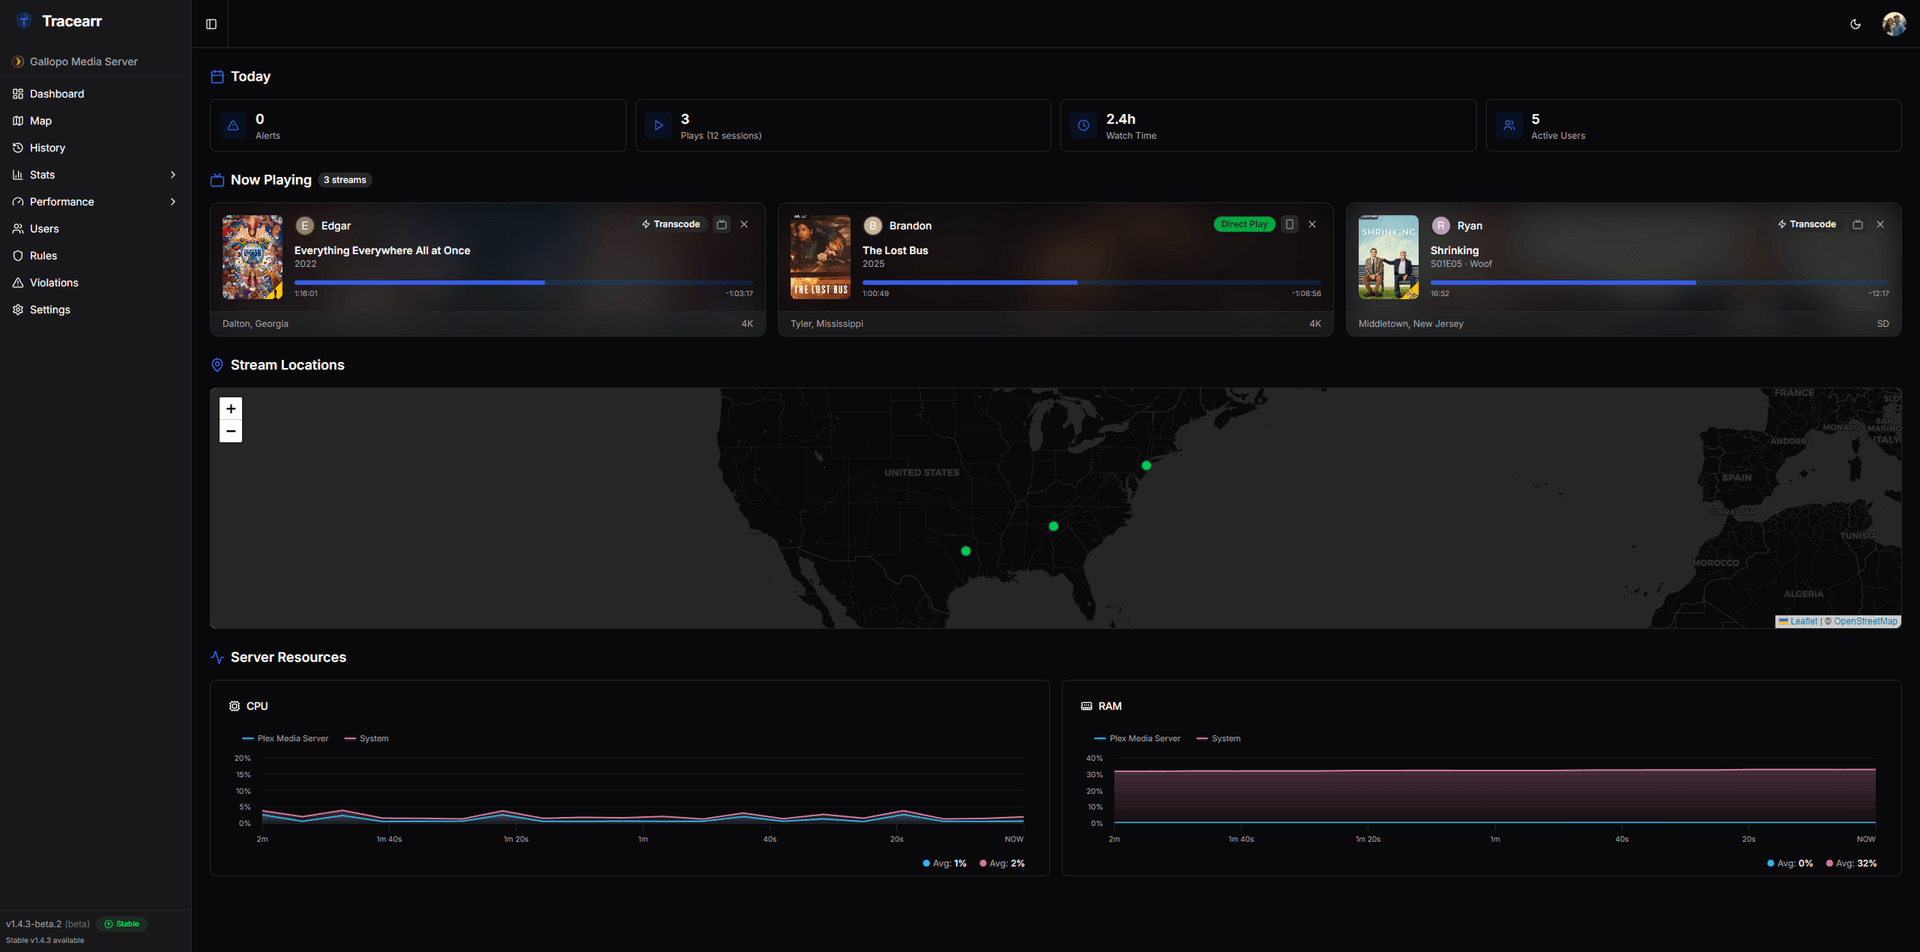
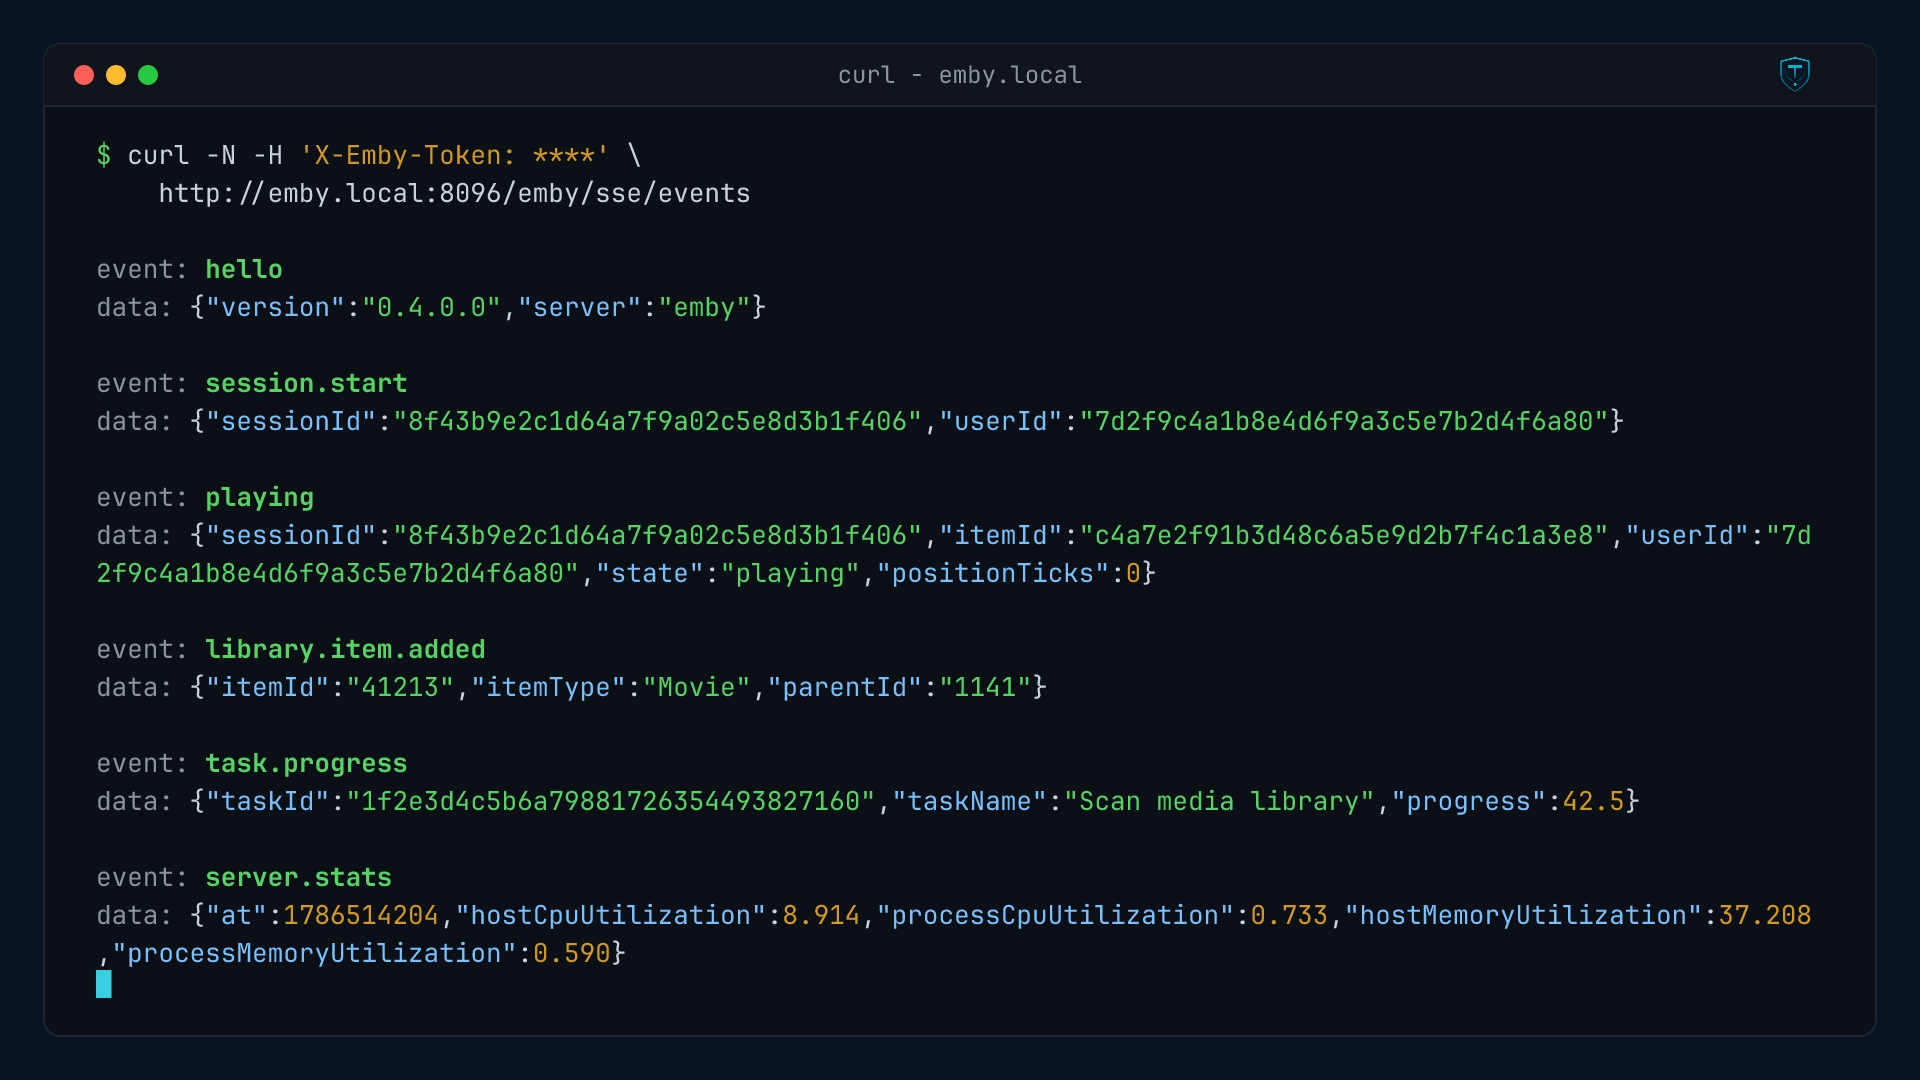
catalog art goes sse-specific and the manifests carry real release notes

diff --git a/.github/scripts/update-manifests.py b/.github/scripts/update-manifests.py
@@ -48,9 +48,13 @@ def main(argv):
     jf_url = JF_URL_TEMPLATE.format(v=release_version)
     emby_url = EMBY_URL_TEMPLATE.format(v=release_version)
 
+    changelog = changelog_summary(release_version) or "See GitHub release notes."
+
     # Build both outputs in memory first; if either raises, no files are written
-    json_text = build_manifest_json(assembly_version, jf_md5, jf_url, timestamp)
-    xml_tree = build_emby_xml(assembly_version, emby_md5, emby_url, timestamp)
+    json_text = build_manifest_json(
+        assembly_version, jf_md5, jf_url, timestamp, changelog
+    )
+    xml_tree = build_emby_xml(assembly_version, emby_md5, emby_url, timestamp, changelog)
 
     Path("manifest.json").write_text(json_text)
     write_emby_xml(xml_tree, Path("emby-packages.xml"))
@@ -60,7 +64,25 @@ def main(argv):
     )
 
 
-def build_manifest_json(version, checksum, source_url, timestamp):
+def changelog_summary(release_version):
+    """Pull this release's section out of CHANGELOG.md, minus the ### headers."""
+    path = Path("CHANGELOG.md")
+    if not path.exists():
+        return None
+    capture = False
+    section = []
+    for line in path.read_text().splitlines():
+        if line.startswith(f"## [{release_version}]"):
+            capture = True
+            continue
+        if capture and line.startswith("## ["):
+            break
+        if capture and not line.startswith("### "):
+            section.append(line)
+    return "\n".join(section).strip() or None
+
+
+def build_manifest_json(version, checksum, source_url, timestamp, changelog):
     path = Path("manifest.json")
     data = json.loads(path.read_text())
     if not isinstance(data, list) or len(data) == 0:
@@ -69,7 +91,7 @@ def build_manifest_json(version, checksum, source_url, timestamp):
         sys.exit("manifest.json: data[0].versions key not found")
     new_entry = {
         "version": version,
-        "changelog": "See GitHub release notes.",
+        "changelog": changelog,
         "targetAbi": TARGET_ABI,
         "sourceUrl": source_url,
         "checksum": checksum,
@@ -79,7 +101,7 @@ def build_manifest_json(version, checksum, source_url, timestamp):
     return json.dumps(data, indent=2) + "\n"
 
 
-def build_emby_xml(version, checksum, source_url, timestamp):
+def build_emby_xml(version, checksum, source_url, timestamp, changelog):
     path = Path("emby-packages.xml")
     tree = ET.parse(path)
     root = tree.getroot()
@@ -91,7 +113,7 @@ def build_emby_xml(version, checksum, source_url, timestamp):
     fields = [
         ("versionStr", version),
         ("classification", "Release"),
-        ("description", "See GitHub release notes."),
+        ("description", changelog),
         ("sourceUrl", source_url),
         ("checksum", checksum),
         ("runtimes", "netstandard"),

diff --git a/README.md b/README.md
@@ -154,7 +154,3 @@ Three projects, two distribution shapes:
 ## License
 
 [GPL-3.0-or-later](LICENSE)
-
-## TODO
-
-- Replace placeholder icons in `assets/` with SSE-specific art (currently uses Tracearr web app icon as placeholder).
